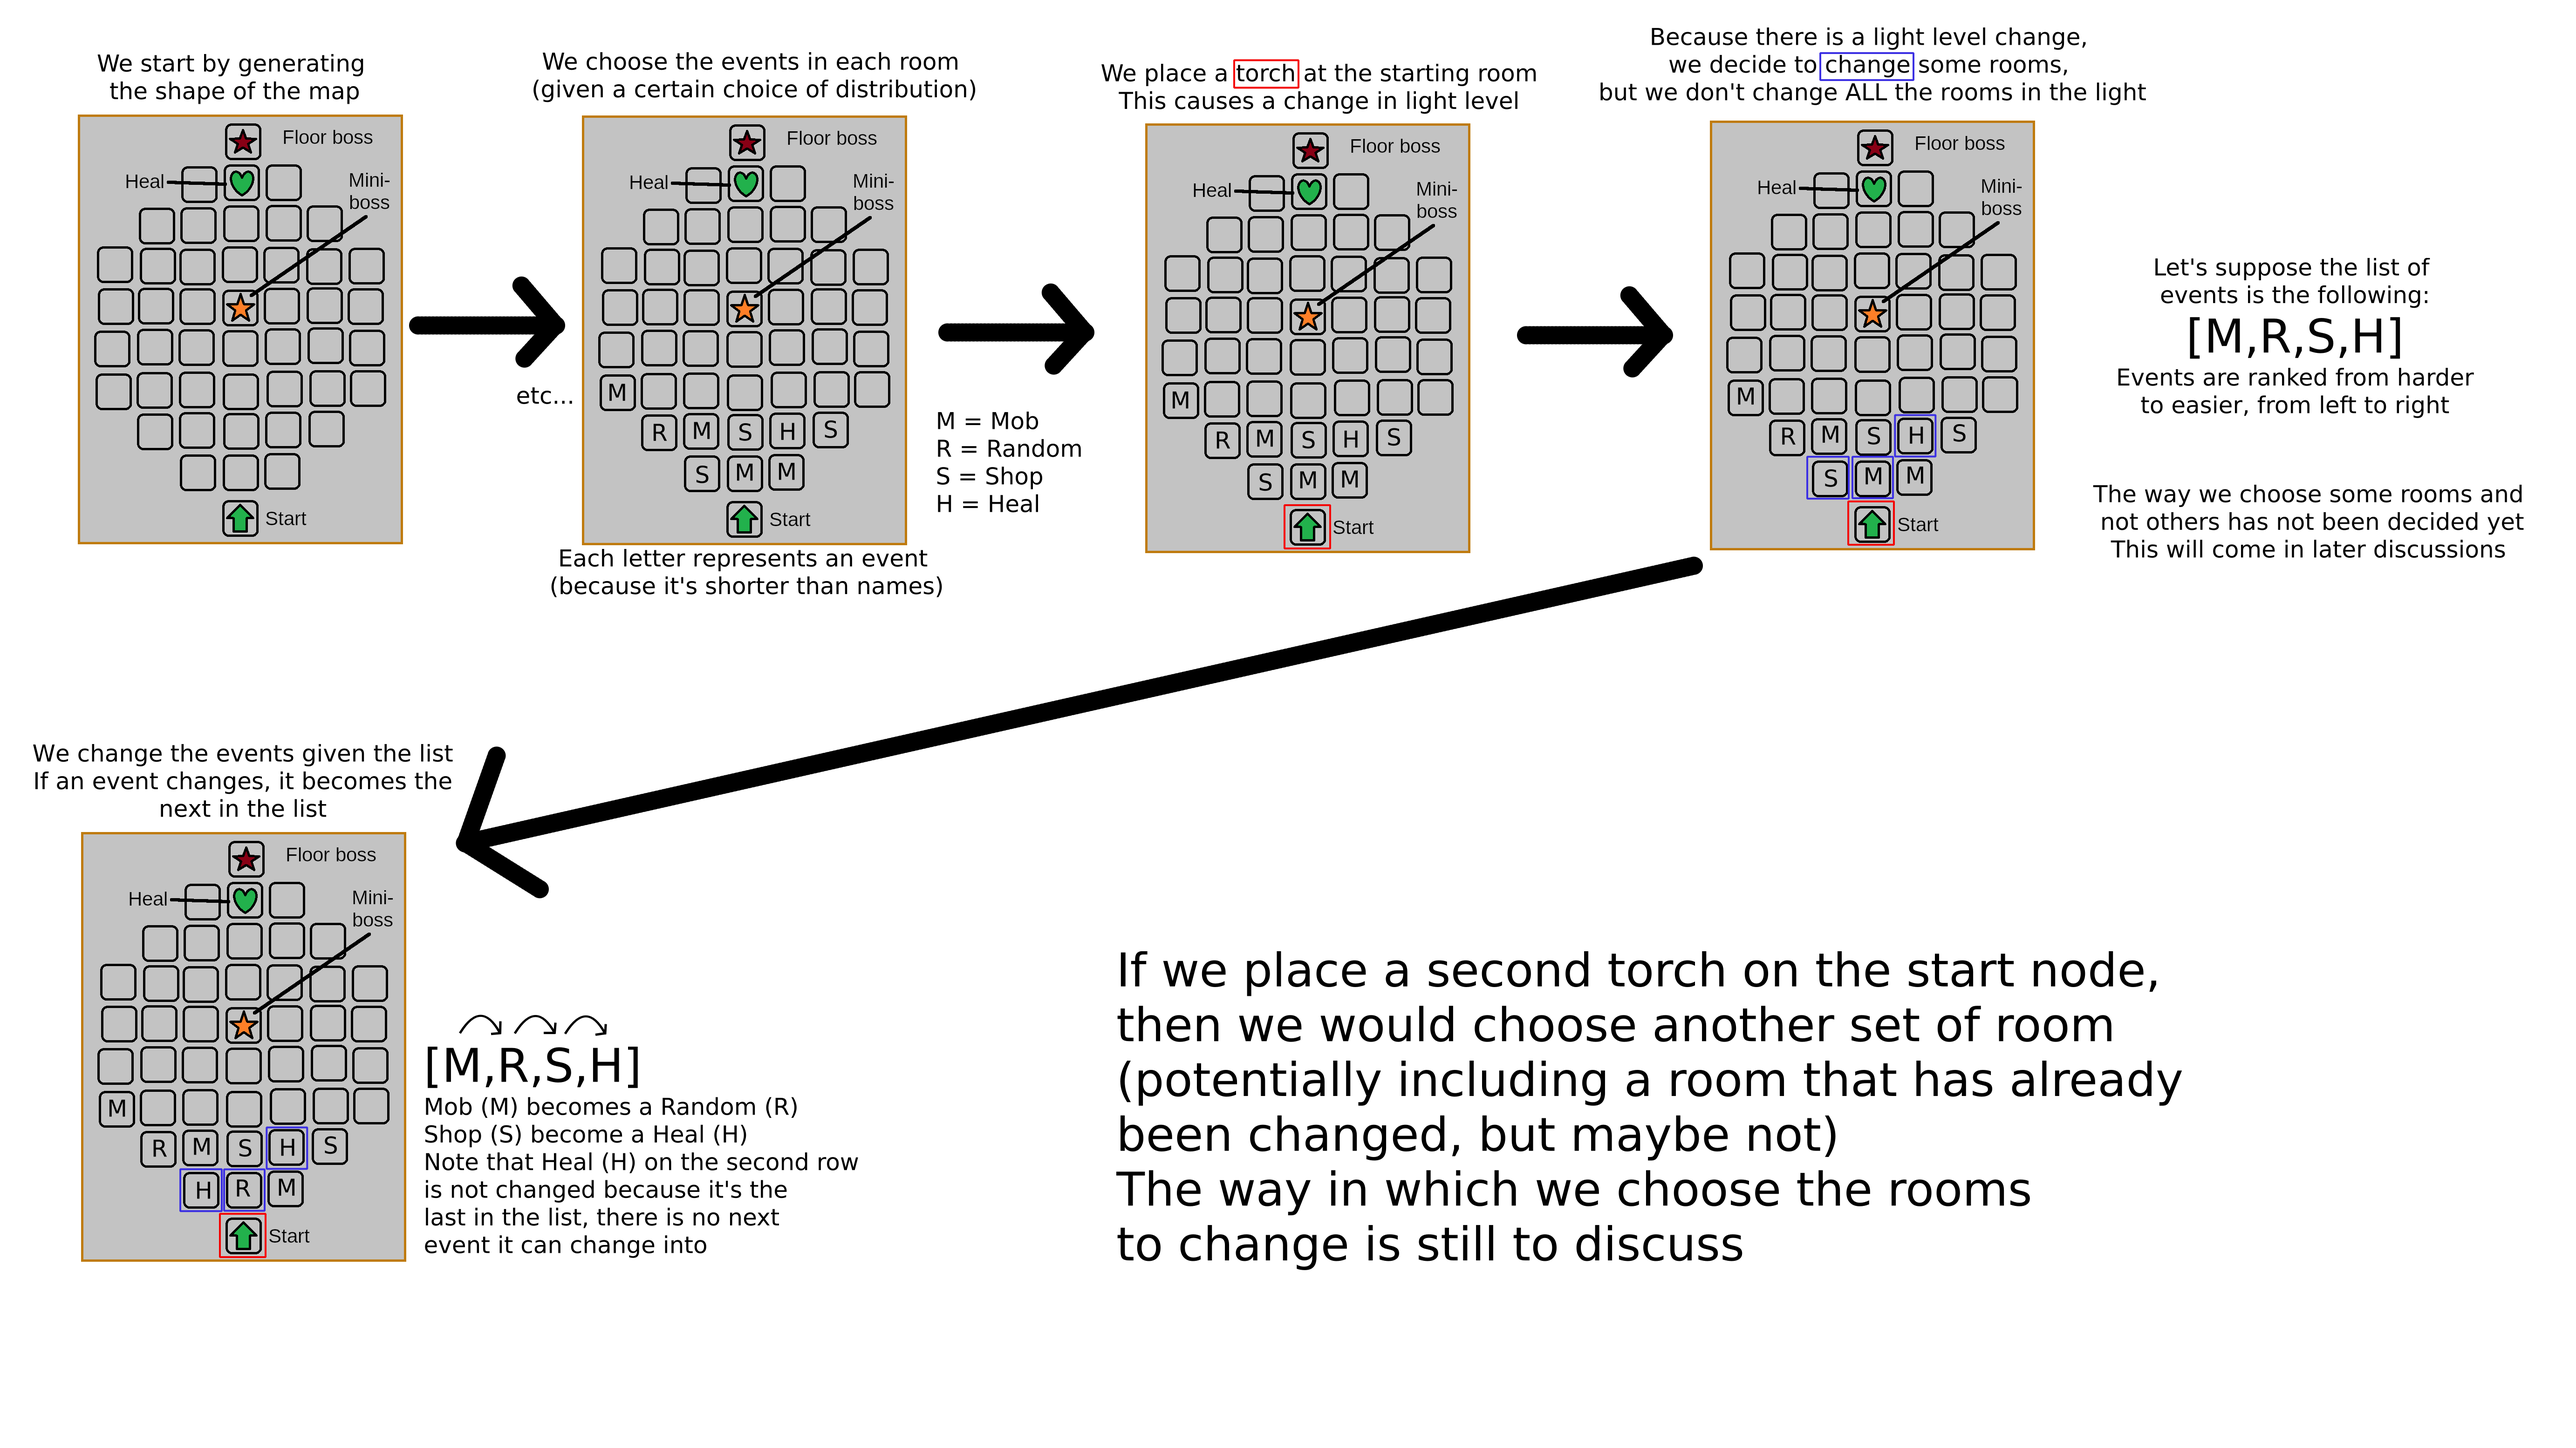
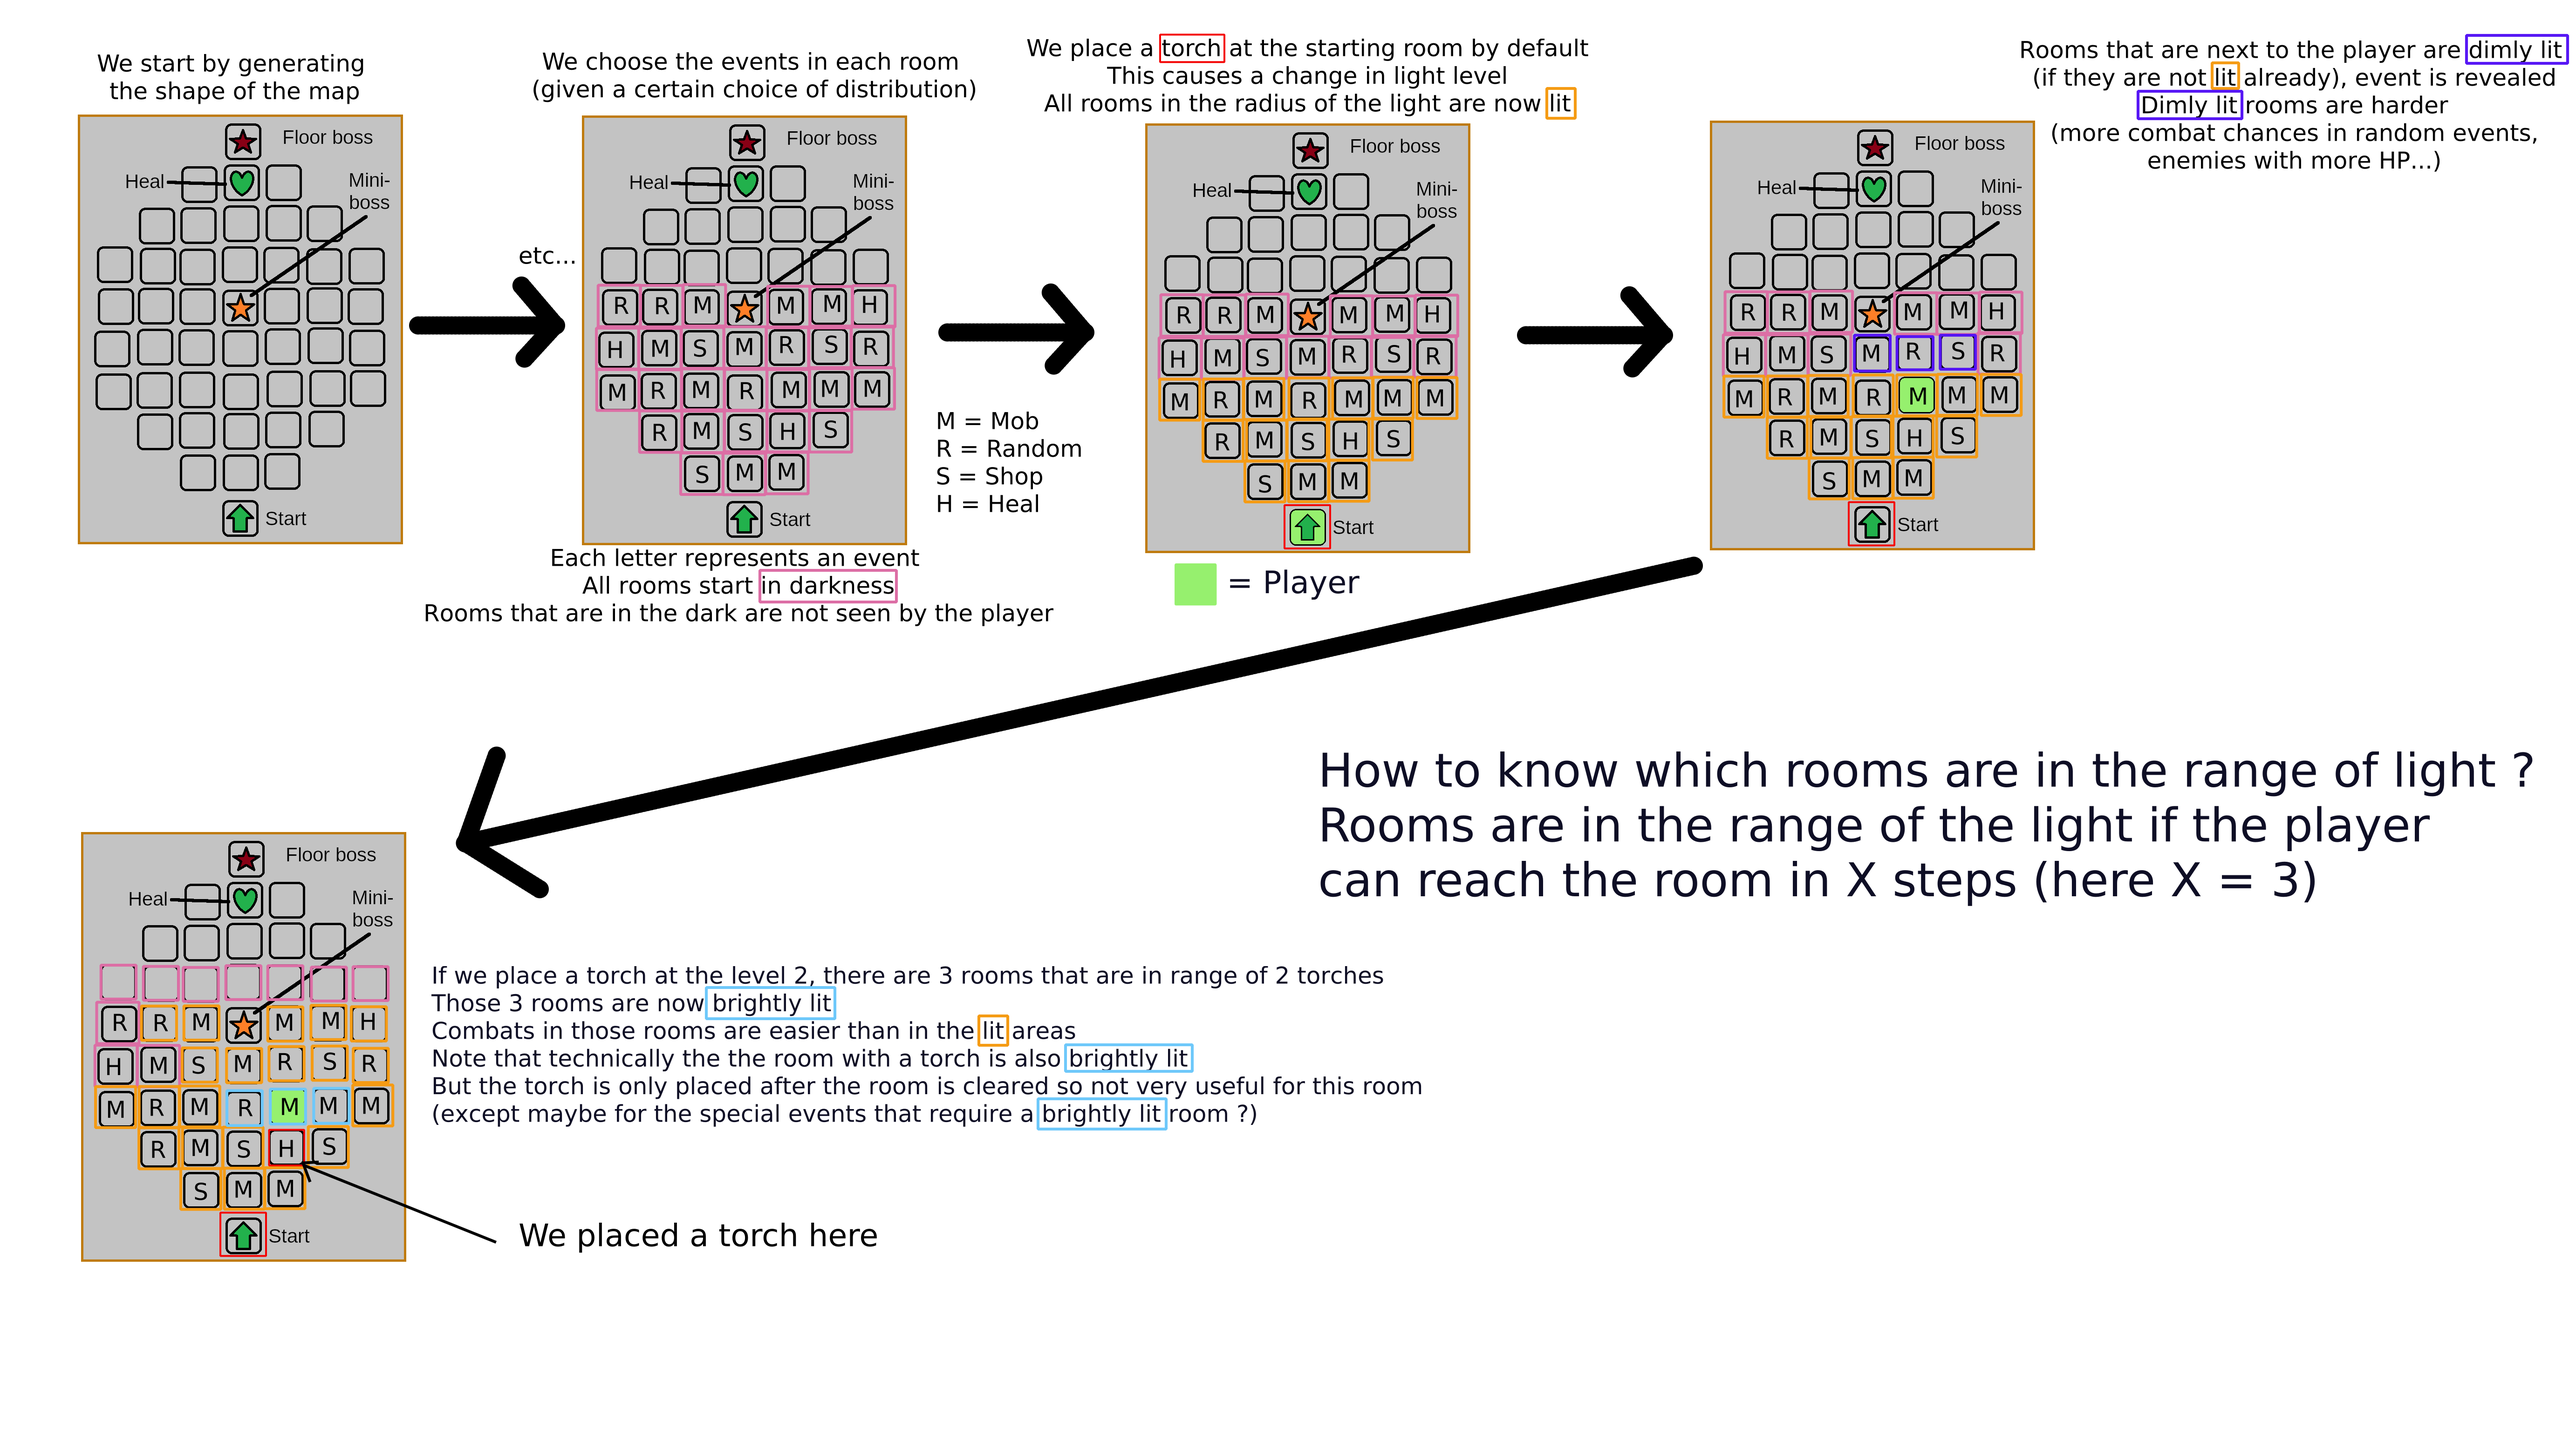
Fix the image explaning the different light levels on the map
Previous explanation that I provided was wrong (misinterpretation on my part)
I checked with the design team to provide an updated version

diff --git a/DOCUMENTATION.md b/DOCUMENTATION.md
@@ -92,7 +92,7 @@ You place one of your 3 torches, not feeling overconfident, and the next 3 level
 
 You now have only 1 torch left, which lets you continue up to node level 10 at normal difficulty, or less at easier difficulty. You can buy more at a shop, and combats have a chance to drop one. If you have torches remaining at the end of a map, you get a bonus.
 
-### How event changes are made
+### Image of the different levels of light on the map
 
 ![Light mechanic](documentation_images/light_mechanic_explanation.png)
 
